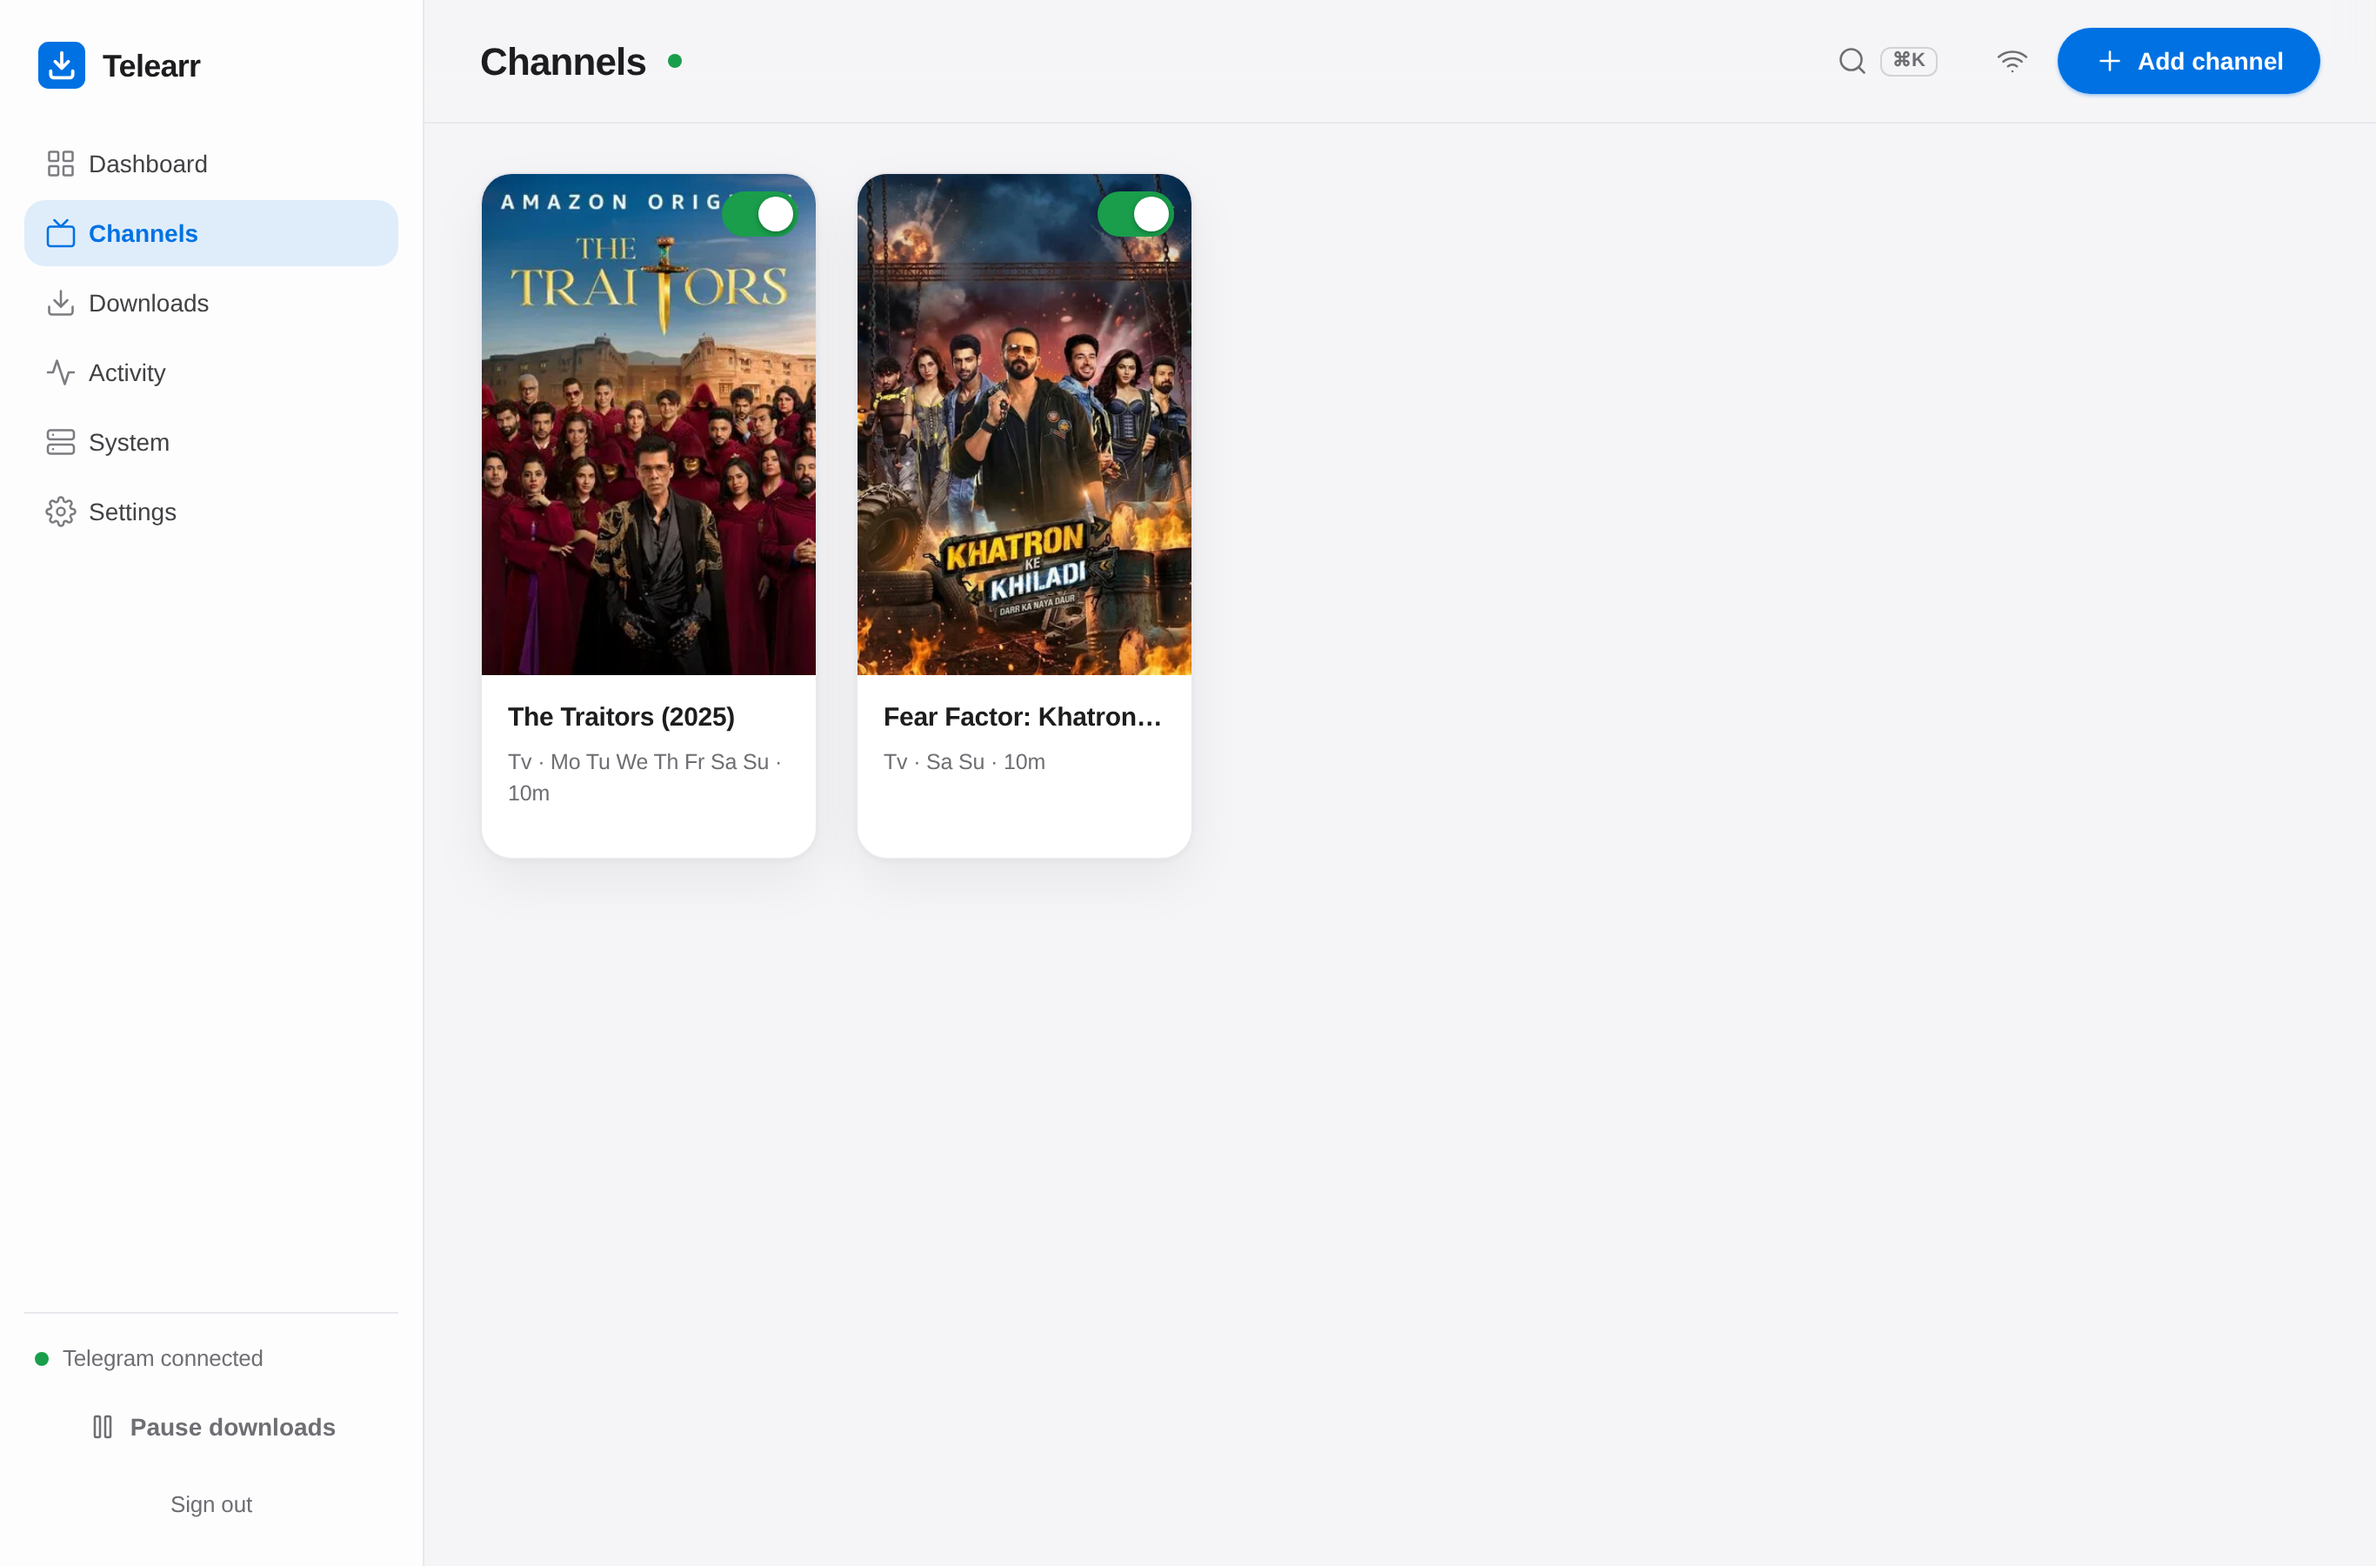
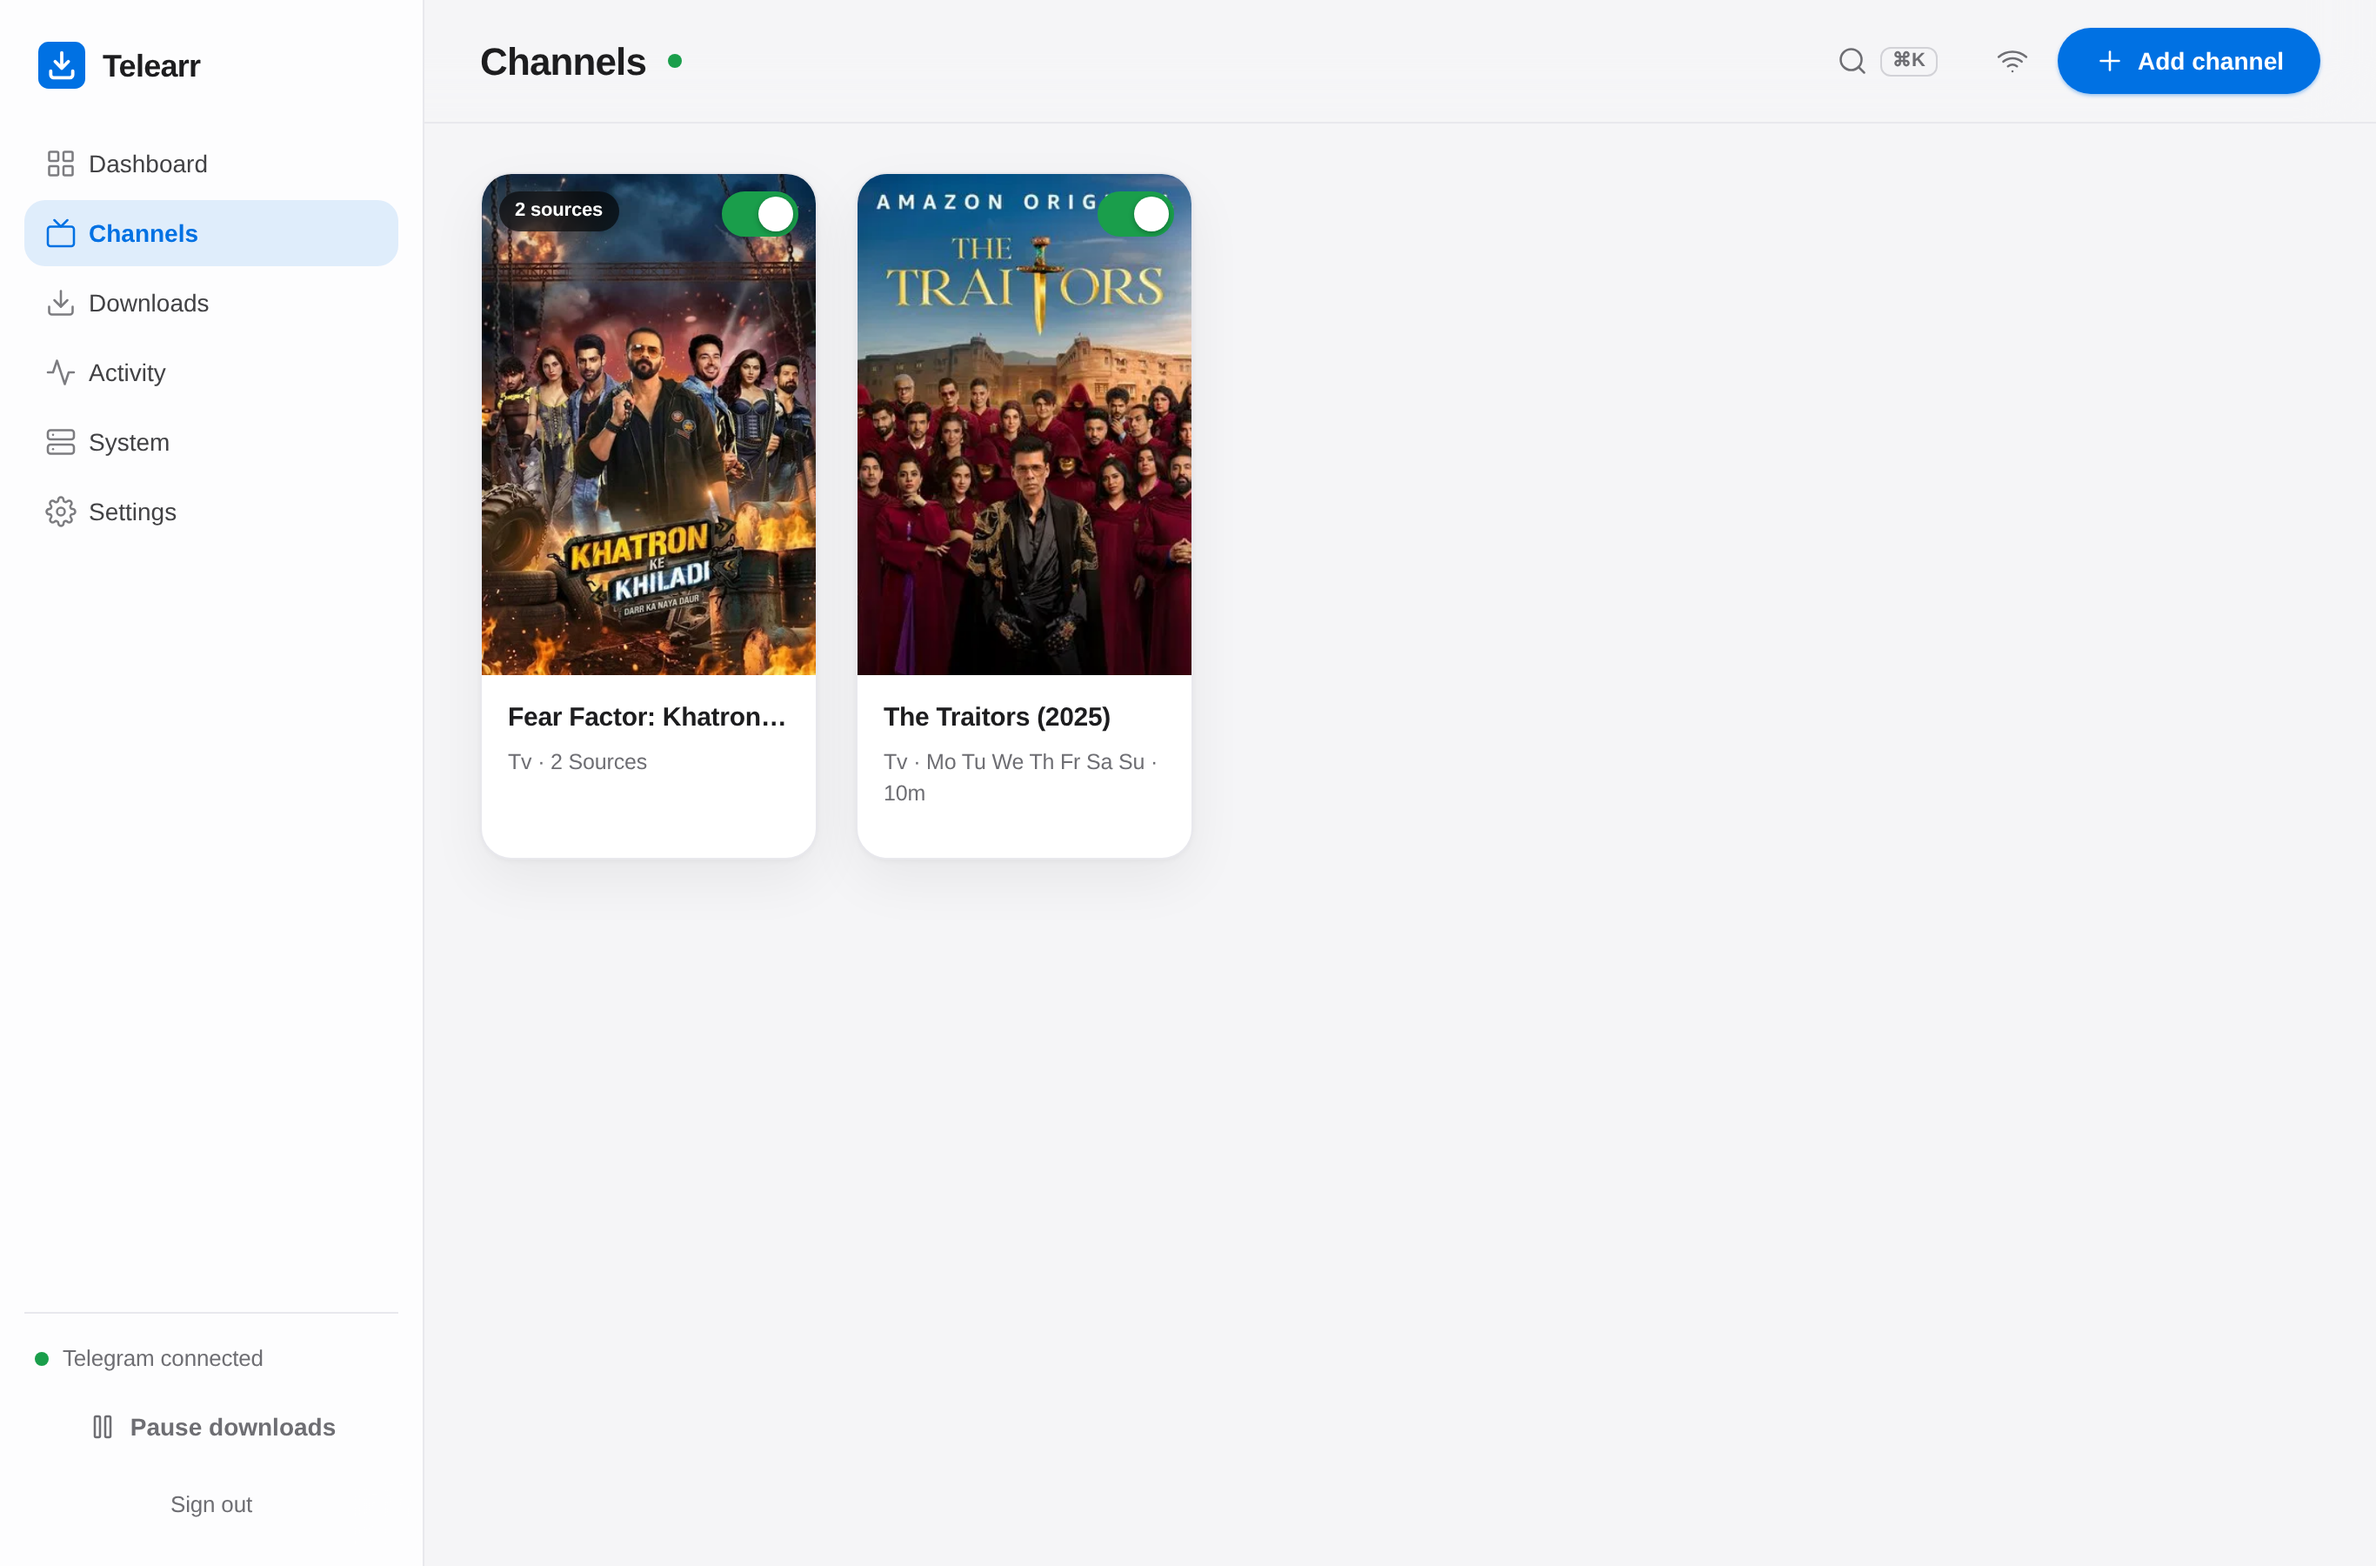
feat: group channels by show — multiple source channels per title
Channels view now groups channels that share an IMDb mapping into one poster
card with an 'N sources' badge; the detail drawer lists every source channel
with per-source enable/edit/remove, shows the merged episode list, and Scan/
Backfill act on all sources at once. Pairs with the per-show dedup so several
channels can feed one show (one goes stale, another has the new episode)
without duplicate downloads or split library folders.

Changed region(s): [[0.1867, 0.0933, 0.5289, 0.4978]]

diff --git a/app/static/js/views.js b/app/static/js/views.js
@@ -175,38 +175,55 @@ function loadArt(imdb, img, poster) {
   api(`/api/art?imdb=${encodeURIComponent(imdb)}`).then((a) => { _artCache.set(imdb, a || {}); apply(a || {}); });
 }
 
-function channelCard(c, ctx) {
+// A "show" is one or more source channels sharing an IMDb mapping. Grouping
+// lets several channels feed one title (some go stale, others post the new ep).
+const showKey = (c) => (c.imdb_id || "").trim() || (c.imdb_title || "").trim() || ("ch:" + c.id);
+const scanAll = async (group) => { for (const c of group) await api(`/api/channels/${c.id}/scan`, { method: "POST" }); toast(`Scanning ${group.length} source${group.length > 1 ? "s" : ""}`, "ok"); };
+const backfillAll = async (group) => { for (const c of group) await api(`/api/channels/${c.id}/backfill`, { method: "POST" }); toast("Backfill started", "ok"); };
+
+function showCard(group, ctx) {
+  const rep = group.find((c) => c.imdb_id) || group[0];
+  const multi = group.length > 1;
   const days = ["Mo", "Tu", "We", "Th", "Fr", "Sa", "Su"];
-  const dstr = (c.weekdays || "").split(",").filter((x) => x !== "").map((i) => days[i]).join(" ");
+  const dstr = (rep.weekdays || "").split(",").filter((x) => x !== "").map((i) => days[i]).join(" ");
+  const anyEnabled = group.some((c) => c.enabled);
   const img = h("img", { class: "poster-img", alt: "", loading: "lazy" });
-  const poster = h("div", { class: "poster", onClick: () => openChannelDrawer(ctx, c) },
+  const poster = h("div", { class: "poster", onClick: () => openChannelDrawer(ctx, rep, group) },
     h("span", { class: "poster-fallback", html: icon("film") }), img,
-    h("button", { class: `toggle ch-toggle ${c.enabled ? "on" : ""}`, title: c.enabled ? "Enabled" : "Disabled", "aria-label": "Toggle channel",
-      onClick: async (e) => { e.stopPropagation(); await jpatch(`/api/channels/${c.id}`, { enabled: c.enabled ? 0 : 1 }); ctx.refresh(); } }));
-  loadArt(c.imdb_id, img, poster);
-  if (!c.imdb_id) poster.classList.add("art-done");
+    multi ? h("span", { class: "src-badge" }, group.length + " sources") : null,
+    h("button", { class: `toggle ch-toggle ${anyEnabled ? "on" : ""}`, title: anyEnabled ? "Enabled" : "Disabled", "aria-label": "Toggle",
+      onClick: async (e) => { e.stopPropagation(); const to = anyEnabled ? 0 : 1; for (const c of group) await jpatch(`/api/channels/${c.id}`, { enabled: to }); ctx.refresh(); } }));
+  loadArt(rep.imdb_id, img, poster);
+  if (!rep.imdb_id) poster.classList.add("art-done");
   return h("div", { class: "ch-card" }, poster,
     h("div", { class: "ch-body" },
-      h("div", { class: "ch-title", title: c.imdb_title || c.title }, c.imdb_title || c.title),
-      h("div", { class: "ch-meta" }, `${c.kind} · ${dstr || "—"} · ${c.poll_minutes}m`),
+      h("div", { class: "ch-title", title: rep.imdb_title || rep.title }, rep.imdb_title || rep.title),
+      h("div", { class: "ch-meta" }, multi ? `${rep.kind} · ${group.length} sources` : `${rep.kind} · ${dstr || "—"} · ${rep.poll_minutes}m`),
       h("div", { class: "ch-actions" },
-        h("button", { class: "btn ghost sm", onClick: async () => { await api(`/api/channels/${c.id}/scan`, { method: "POST" }); toast("Scan started", "ok"); } }, h("span", { html: icon("scan") }), "Scan"),
-        h("button", { class: "btn ghost sm", onClick: async () => { await api(`/api/channels/${c.id}/backfill`, { method: "POST" }); toast("Backfill started", "ok"); } }, "Backfill"),
-        h("button", { class: "btn ghost sm icon", title: "Edit", "aria-label": "Edit channel", onClick: () => openChannelModal(ctx, c) }, h("span", { html: icon("edit") })),
-        h("button", { class: "btn ghost sm icon", title: "Remove", "aria-label": "Remove channel", onClick: async () => { if (confirm("Remove this channel? Download history is kept.")) { await api(`/api/channels/${c.id}`, { method: "DELETE" }); toast("Channel removed", "ok"); ctx.refresh(); } } }, h("span", { html: icon("trash") })))));
+        h("button", { class: "btn ghost sm", onClick: () => scanAll(group) }, h("span", { html: icon("scan") }), "Scan"),
+        h("button", { class: "btn ghost sm", onClick: () => backfillAll(group) }, "Backfill"),
+        multi
+          ? h("button", { class: "btn ghost sm", onClick: () => openChannelDrawer(ctx, rep, group) }, h("span", { html: icon("channels") }), "Sources")
+          : h("button", { class: "btn ghost sm icon", title: "Edit", "aria-label": "Edit channel", onClick: () => openChannelModal(ctx, rep) }, h("span", { html: icon("edit") })),
+        multi ? null
+          : h("button", { class: "btn ghost sm icon", title: "Remove", "aria-label": "Remove channel", onClick: async () => { if (confirm("Remove this channel? Download history is kept.")) { await api(`/api/channels/${rep.id}`, { method: "DELETE" }); toast("Channel removed", "ok"); ctx.refresh(); } } }, h("span", { html: icon("trash") })))));
 }
 
 export function viewChannels(ctx) {
   const rows = ctx.data.channels || [];
   if (!rows.length) return emptyState("channels", "No channels yet", "Add a Telegram channel to start grabbing episodes.", "Add channel", () => openChannelModal(ctx, null));
-  return h("div", { class: "ch-grid" }, ...rows.map((c) => channelCard(c, ctx)));
+  const groups = new Map();
+  for (const c of rows) { const k = showKey(c); if (!groups.has(k)) groups.set(k, []); groups.get(k).push(c); }
+  return h("div", { class: "ch-grid" }, ...[...groups.values()].map((g) => showCard(g, ctx)));
 }
 
 // hero-backdrop detail drawer for a channel
-export function openChannelDrawer(ctx, c) {
+export function openChannelDrawer(ctx, c, group = null) {
   const host = document.querySelector("#modal-root");
+  const grp = group && group.length ? group : [c];
+  const ids = new Set(grp.map((x) => x.id));
   const art = _artCache.get(c.imdb_id) || {};
-  const eps = (ctx.data.downloads || []).filter((d) => d.channel_id === c.id && d.status === "completed")
+  const eps = (ctx.data.downloads || []).filter((d) => ids.has(d.channel_id) && d.status === "completed")
     .sort((a, b) => (b.finished_at || 0) - (a.finished_at || 0));
   const hero = h("div", { class: "hero" });
   const posterBox = h("div", { class: "drawer-poster" });
@@ -234,9 +251,19 @@ export function openChannelDrawer(ctx, c) {
           h("div", { class: "drawer-info" },
             h("h2", {}, c.imdb_title || c.title), meta, overview,
             h("div", { class: "drawer-actions" },
-              h("button", { class: "btn primary sm", onClick: async () => { await api(`/api/channels/${c.id}/scan`, { method: "POST" }); toast("Scan started", "ok"); } }, h("span", { html: icon("scan") }), "Scan"),
-              h("button", { class: "btn ghost sm", onClick: async () => { await api(`/api/channels/${c.id}/backfill`, { method: "POST" }); toast("Backfill started", "ok"); } }, "Backfill"),
-              h("button", { class: "btn ghost sm", onClick: () => { close(); openChannelModal(ctx, c); } }, h("span", { html: icon("edit") }), "Edit")))),
+              h("button", { class: "btn primary sm", onClick: () => scanAll(grp) }, h("span", { html: icon("scan") }), "Scan"),
+              h("button", { class: "btn ghost sm", onClick: () => backfillAll(grp) }, "Backfill"),
+              grp.length === 1
+                ? h("button", { class: "btn ghost sm", onClick: () => { close(); openChannelModal(ctx, c); } }, h("span", { html: icon("edit") }), "Edit")
+                : null))),
+        grp.length > 1 ? h("div", { class: "drawer-eps" },
+          h("div", { class: "card-h" }, `${grp.length} source channels`),
+          ...grp.map((s) => h("div", { class: "src-row" },
+            h("span", { class: "dot " + (s.enabled ? "ok" : "bad") }),
+            h("span", { class: "src-name", title: s.title }, s.title),
+            h("button", { class: "btn ghost sm", onClick: async () => { await jpatch(`/api/channels/${s.id}`, { enabled: s.enabled ? 0 : 1 }); close(); ctx.refresh(); } }, s.enabled ? "Disable" : "Enable"),
+            h("button", { class: "btn ghost sm", onClick: () => { close(); openChannelModal(ctx, s); } }, "Edit"),
+            h("button", { class: "btn ghost sm icon", title: "Remove source", "aria-label": "Remove source", onClick: async () => { if (confirm("Remove this source channel? Download history is kept.")) { await api(`/api/channels/${s.id}`, { method: "DELETE" }); toast("Source removed", "ok"); close(); ctx.refresh(); } } }, h("span", { html: icon("trash") }))))) : null,
         h("div", { class: "drawer-eps" },
           h("div", { class: "card-h" }, `${eps.length} episode${eps.length === 1 ? "" : "s"} downloaded`),
           ...(eps.length ? eps.slice(0, 60).map((d) => h("div", { class: "ep-row" },

diff --git a/app/static/app.css b/app/static/app.css
@@ -339,6 +339,10 @@ body.dense .data-card th, body.dense .data-card td, body.dense .grp-body td { pa
 .poster-img { position: absolute; inset: 0; width: 100%; height: 100%; object-fit: cover; opacity: 0; transition: opacity .5s var(--ease); }
 .poster-img.loaded { opacity: 1; }
 .ch-toggle { position: absolute; top: 10px; right: 10px; z-index: 2; }
+.src-badge { position: absolute; top: 10px; left: 10px; z-index: 2; background: rgba(0,0,0,.62); color: #fff; font-size: 11px; font-weight: 600; padding: 3px 9px; border-radius: var(--r-pill); backdrop-filter: blur(6px); }
+.src-row { display: flex; align-items: center; gap: 10px; padding: 10px 0; border-bottom: 1px solid var(--line-soft); font-size: 14px; }
+.src-row:last-child { border-bottom: 0; }
+.src-name { flex: 1; min-width: 0; overflow: hidden; text-overflow: ellipsis; white-space: nowrap; }
 .ch-body { padding: 14px 15px 15px; }
 .ch-title { font-weight: 600; font-size: 15px; letter-spacing: -.01em; overflow: hidden; text-overflow: ellipsis; white-space: nowrap; }
 .ch-meta { color: var(--muted); font-size: 12.5px; margin: 4px 0 12px; text-transform: capitalize; }
